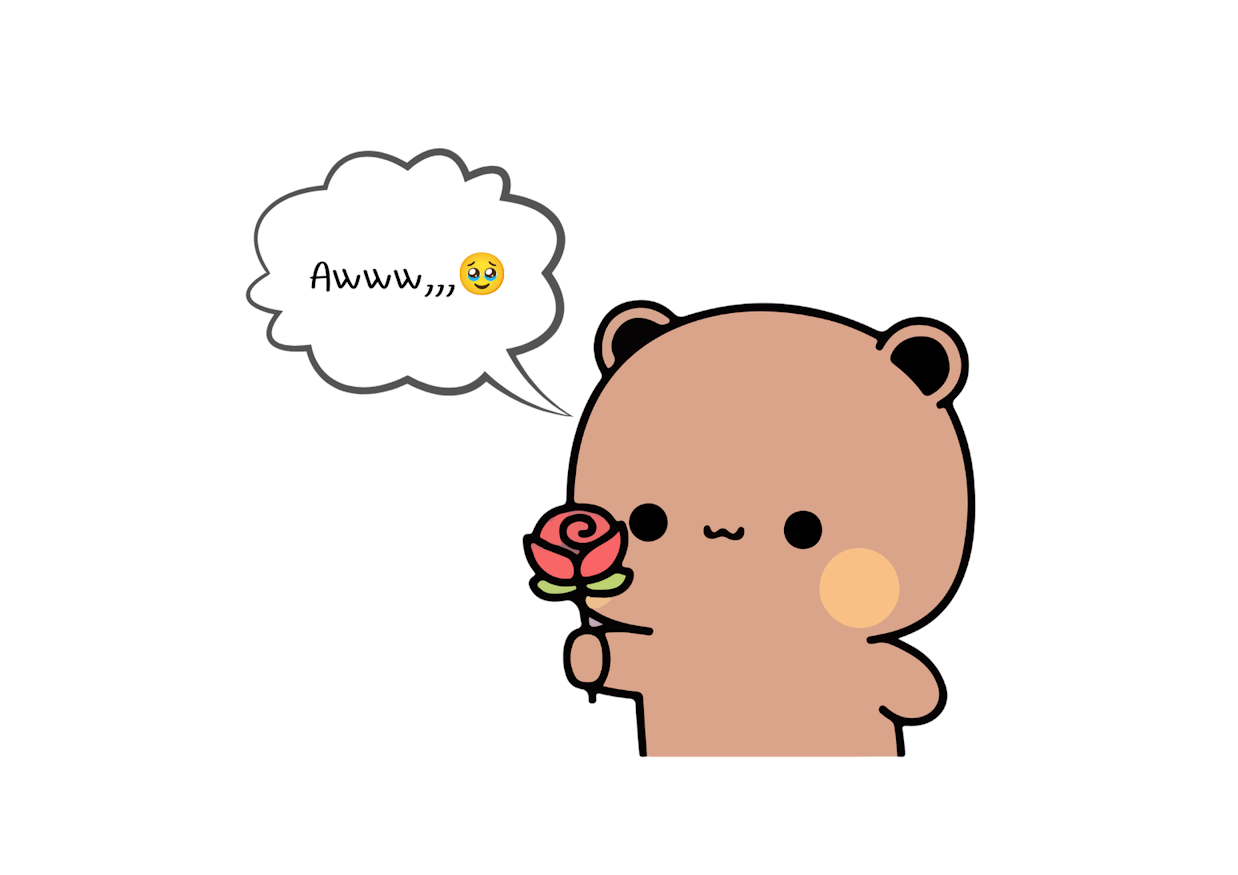
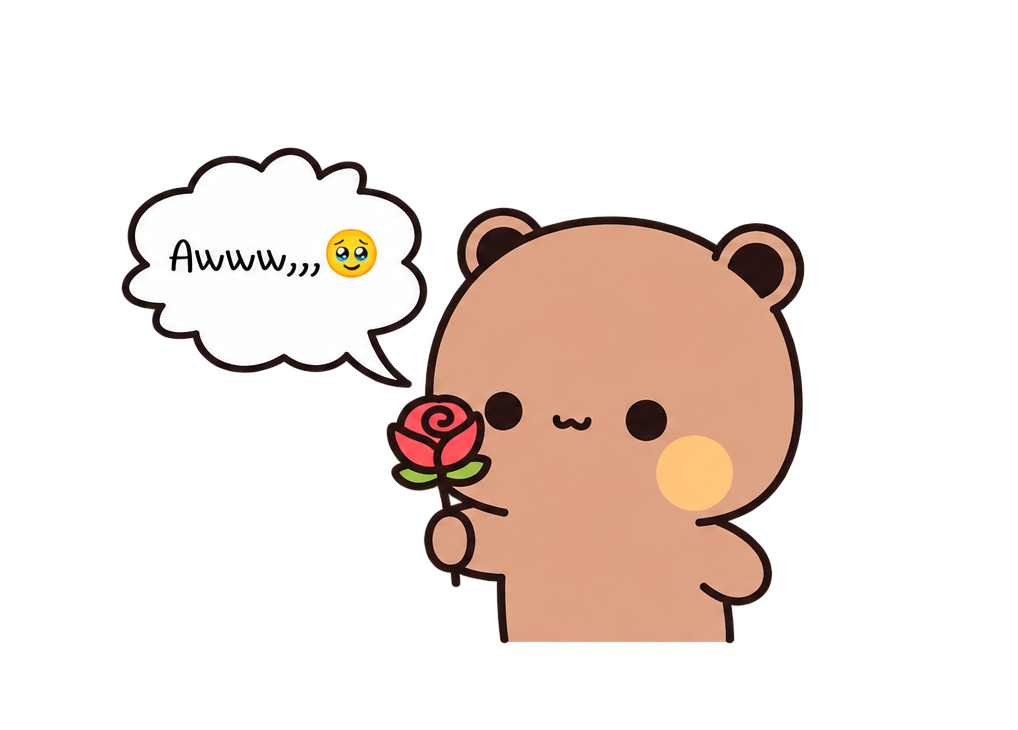
.

Changed region(s): [[0.1218, 0.1507, 0.7917, 0.9041]]

diff --git a/september.html b/september.html
@@ -11,9 +11,9 @@
     <link rel="preload"
         href="https://fonts.googleapis.com/css2?family=Caveat:wght@400..700&family=Nunito:ital,wght@0,400..800&family=Noto+Sans+Bengali:wght@400;500;600;700&display=swap"
         as="style">
-    <link rel="preload" href="img/question.png" as="image">
-    <link rel="preload" href="img/yes.png" as="image">
-    <link rel="preload" href="img/no (1).png" as="image">
+    <link rel="preload" href="img/question.png" as="image" fetchpriority="high">
+    <link rel="preload" href="img/yes.png" as="image" fetchpriority="high">
+    <link rel="preload" href="img/no%20(1).png" as="image" fetchpriority="high">
     <!-- Standard Meta -->
     <meta name="description" content="A special birthday surprise is waiting for you! 🎁">
 
@@ -1242,8 +1242,8 @@
            NEW SCREENS: QUESTION / YES / NO
         ══════════════════════════════════════ */
         .new-screen-img {
-            width: clamp(240px, 85vw, 400px);
-            max-width: 100%;
+            width: clamp(312px, 110vw, 520px);
+            max-width: none;
             height: auto;
             border: none;
             border-radius: 0;
@@ -1863,6 +1863,17 @@
     <div class="footer">Developed with ❤ By Nafis</div>
 
     <script>
+        /* ═══════════════════ EAGER IMAGE PRELOADER ═══════════════════ */
+        (function () {
+            const srcs = ['img/question.png', 'img/yes.png', 'img/no (1).png'];
+            srcs.forEach(src => {
+                const img = new Image();
+                img.src = src;
+                // decode() forces the browser to fully fetch + decode the image into memory
+                if (img.decode) img.decode().catch(() => {});
+            });
+        })();
+
         /* ═══════════════════ STARS ═══════════════════ */
         (function () {
             const sf = document.getElementById('starfield');
